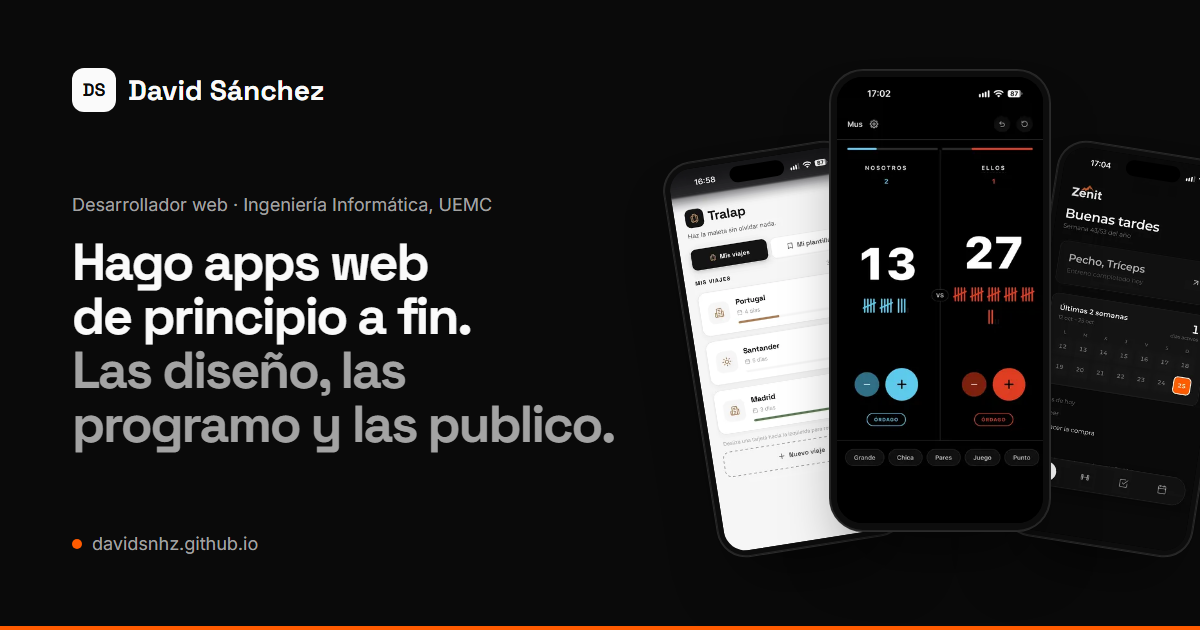
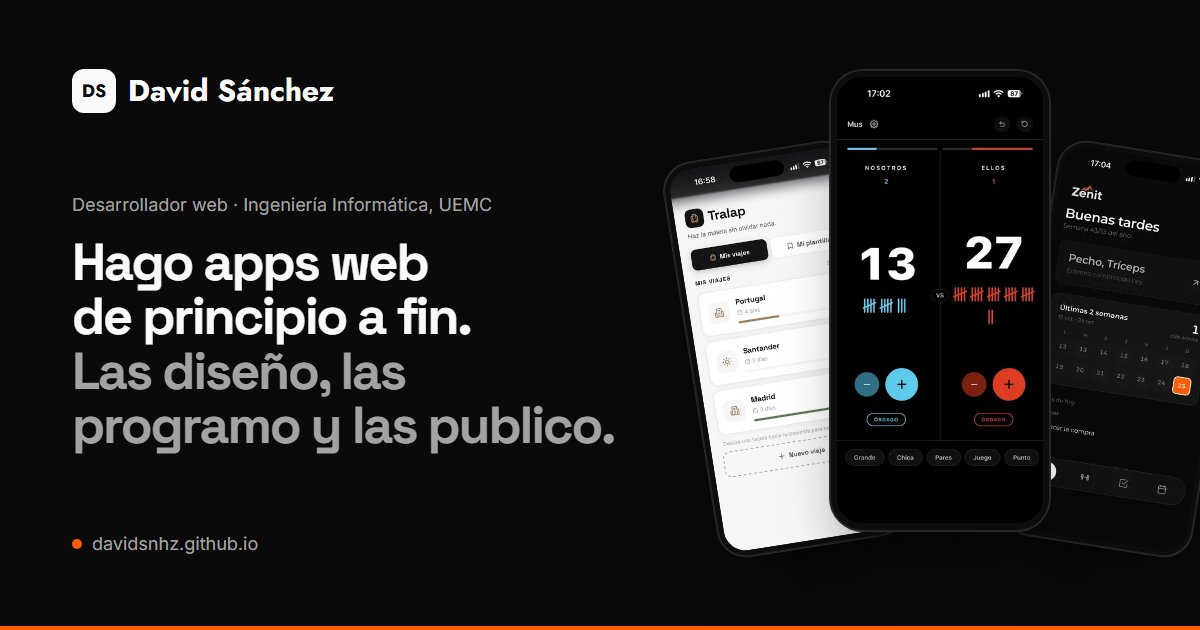
feat: tipografía Futura para el nombre, con Jost como respaldo libre
Futura Next es comercial y no se puede servir sin licencia web: el nombre
usa Futura si el dispositivo la tiene (macOS/iOS) y si no Jost Bold (OFL).
Regenera las imágenes Open Graph.

diff --git a/src/styles/global.css b/src/styles/global.css
@@ -38,6 +38,9 @@
   --color-accent-text: var(--accent-text);
   --font-display: var(--font-space-grotesk);
   --font-sans: var(--font-inter);
+  /* Nombre: Futura Next Bold es comercial y no se puede servir sin licencia web.
+     Se usa Futura si el dispositivo la tiene (macOS/iOS la traen) y si no, Jost, su versión libre */
+  --font-brand: 'Futura Next', 'Futura PT', Futura, var(--font-jost);
 }
 
 @layer base {
